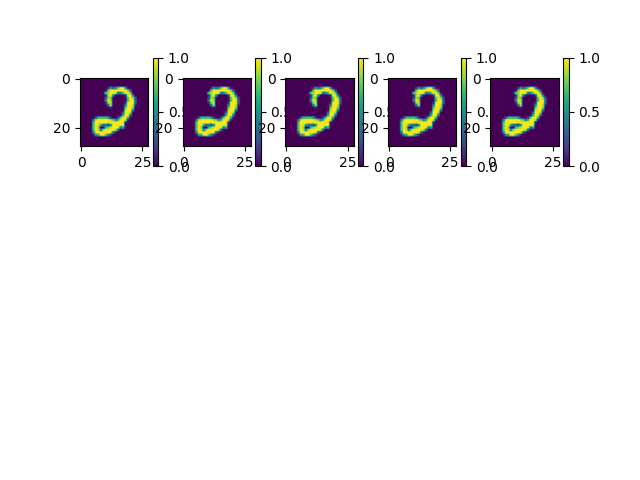
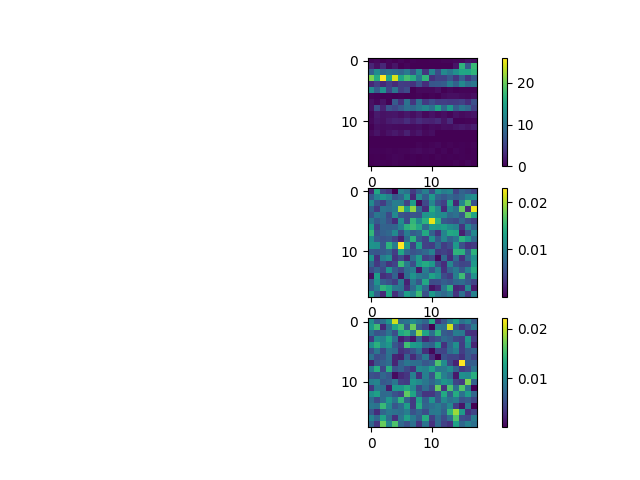
brewnet fold and unfold add to main

diff --git a/hynet/imgr/brew_layer.py b/hynet/imgr/brew_layer.py
@@ -14,6 +14,8 @@ class BrewLayer(nn.Module):
         self.fnn = nn.ModuleList([
             nn.Linear(sample_size, hidden_size, bias=bias),
             nn.ReLU(),
+            nn.Linear(hidden_size, hidden_size, bias=bias),
+            nn.ReLU(),
             nn.Linear(hidden_size, target_size, bias=bias)
         ])
 
@@ -32,14 +34,21 @@ class BrewLayer(nn.Module):
                 w = (module.weight).transpose(-2,- 1)
                 b = module.bias
 
+                if w_hat is not None:
+                    w_hat = torch.matmul(w_hat, w)
+                        # (?, d, C) x (C, C*)  -> (?, d, C*)
+                if b is not None:
+                    if b_hat is not None:
+                        b_hat = torch.matmul(b_hat, w)
+                            # (?, C) x (C, C*) -> (?, C*)
+                        b_hat = b.unsqueeze(0) + b_hat
+            elif isinstance(module, nn.ReLU) or isinstance(module, nn.PReLU):
                 rat = ratio[i].view(-1, ratio[i].size(-1))  # (?, C)
 
                 if w_hat is None:
                     w_hat = rat.unsqueeze(1) * w.unsqueeze(0)
                     # (?, 1, C1) * (1, d, C1)  -> (?, d, C1)
                 else:
-                    w_hat = torch.matmul(w_hat, w)
-                    # (?, d, C) x (C, C*)  -> (?, d, C*)
                     w_hat = rat.unsqueeze(1) * w_hat  # (?, 1, C*) * (?, d, C*)
 
                 if b is not None:
@@ -47,16 +56,9 @@ class BrewLayer(nn.Module):
                         b_hat = rat * b.unsqueeze(0)
                         # (?, C1) * (1, C1) -> (?, C1)
                     else:
-                        b_hat = torch.matmul(b_hat, w)
-                        # (?, C) x (C, C*) -> (?, C*)
-                        b_hat = rat * (b.unsqueeze(0) + b_hat)
+                        b_hat = rat * b_hat
                         # (?, C) + (?, C) -> (?, C*)
-
                 i += 1
-            elif isinstance(module, nn.ReLU):
-                pass
-            elif isinstance(module, nn.PReLU):
-                pass
             else:
                 raise AttributeError(
                     "Current network architecture, {}, is not supported!".format(module))
@@ -67,45 +69,35 @@ class BrewLayer(nn.Module):
         ratio = []
         for idx, module in enumerate(self.fnn):
             if isinstance(module, nn.Linear):
-                if idx > 0:
-                    ratio.append(self.calculate_ratio(x, x_base))
-                x_base = module(x)
-                x = x_base
-            elif isinstance(module, nn.ReLU):
                 x = module(x)
-            elif isinstance(module, nn.PReLU):
+            elif isinstance(module, nn.ReLU) or isinstance(module, nn.PReLU):
+                x_base = x
                 x = module(x)
+                ratio.append(self.calculate_ratio(x, x_base))
             else:
                 raise AttributeError(
                     "Current network architecture is not supported!")
-
-            if len(self.fnn) - 1 == idx:
-                ratio.append(self.calculate_ratio(x, x_base))
 
         return x, ratio
 
 class BrewCnnLayer(nn.Module):
     def __init__(
-        self,
-        sample_size,
-        hidden_size,
-        target_size,
-        bias=True):
+        self):
         super().__init__()
 
-        self.fnn = nn.ModuleList([
-            nn.Conv2d(1, 5, kernel_size=(7,7), stride=(1,1), bias=False),
+        self.cnn = nn.ModuleList([
+            nn.Unfold(kernel_size=(7,7), stride=(1,1)),
+            nn.Linear(in_features=7*7*1, out_features=10, bias=False),
+            nn.Fold(kernel_size=(1,1), output_size=(22,22)),
             nn.ReLU(),
-            nn.Conv2d(5, 10, kernel_size=(5,5), stride=(1,1), bias=False),
-            nn.ReLU(),
-            nn.Flatten(),
-            nn.Linear(18 * 18 * 10, 10),
-            nn.ReLU(),
-            nn.Linear(10, 10)
+            nn.Unfold(kernel_size=(5,5), stride=(1,1)),
+            nn.Linear(in_features=5*5*10, out_features=10, bias=False),
+            nn.Fold(kernel_size=(1,1), output_size=(18,18)),
+            nn.ReLU()
         ])
 
     @staticmethod
-    def calculate_ratio(x, x_base):
+    def calculate_ratio(x, x_base): 
         rat = x / x_base
         rat[torch.isnan(rat) | torch.isinf(rat)] = 0.0
 
@@ -113,74 +105,31 @@ class BrewCnnLayer(nn.Module):
 
     def brew(self, ratio, split_dim=None, w_hat=None, b_hat=None):
         i = 0
-
-        i_max = len(ratio)
         
-        for module in self.fnn:
-            if isinstance(module, nn.Conv2d):
-                w = module.weight
-                if module.transposed:
-                    w = w.transpose(0,1)
-                # (out_ch, in_ch, *kernel_size)
-                # b = module.bias
-
-                rat = ratio[i].unsqueeze(1)  # (B, 1, out_ch, w, h)
-                if i == 0:
-                    batch_size = rat.size(0)
-
+        for module in self.cnn:
+            if isinstance(module, nn.ReLU) or isinstance(module, nn.PReLU):
+                rat = ratio[i]
+                # (B, C*, w, h)
                 if w_hat is None:
-                    w = w.reshape(1, w.size(0), -1, 1, 1).transpose(1, 2)  # (1, in_ch * *kernel_size, out_ch)
-                    w_hat = w * rat  # (B, in_ch * *kernel_size, out_ch, w, h)
-                    w_hat = w_hat.reshape(w_hat.size(0) * w_hat.size(1), w_hat.size(2), w_hat.size(3), w_hat.size(4))
+                    w_hat = rat.unsqueeze(1) * w.unsqueeze(0).unsqueeze(-1).unsqueeze(-1)
+                    # (?, 1, C1, w, h) * (1, d, C1, 1, 1)  -> (?, d, C1, w, h)
                 else:
-                    w_hat_unf = F.unfold(w_hat, kernel_size=module.kernel_size)
-                    # (B * prev_in_ch * *prev_kernel_size, *kernel_size * in_ch, w_new * h_new)
-                    w = w.reshape(w.size(0), -1)
-                    w_hat = torch.matmul(w_hat_unf.transpose(-2, -1), w.t())  
-                    # (B * prev_in_ch * *prev_kernel_size, w_new * h_new, out_ch)
-                i += 1
+                    w_hat = rat.unsqueeze(1) * w_hat  
+                    # (?, 1, C*, w, h) * (?, d, C*, w, h) -> (?, d, C*, w, h)
 
+                i += 1
+            elif isinstance(module, nn.Unfold):
+                pass
+            elif isinstance(module, nn.Fold):
+                pass
             elif isinstance(module, nn.Linear):
                 w = (module.weight).transpose(-2,- 1)
-                b = module.bias
-                if i_max > i:
-                    rat = ratio[i].view(-1, ratio[i].size(-1))  # (?, C)
+                # (C, C*)
+                assert module.bias is None
 
-                    if w_hat is None:
-                        w_hat = rat.unsqueeze(1) * w.unsqueeze(0)
-                        # (?, 1, C1) * (1, d, C1)  -> (?, d, C1)
-                    else:
-                        w_hat = torch.matmul(w_hat, w)
-                        # (?, d, C) x (C, C*)  -> (?, d, C*)
-                        w_hat = rat.unsqueeze(1) * w_hat  # (?, 1, C*) * (?, d, C*)
-
-                    if b is not None:
-                        if b_hat is None:
-                            b_hat = rat * b.unsqueeze(0)
-                            # (?, C1) * (1, C1) -> (?, C1)
-                        else:
-                            b_hat = torch.matmul(b_hat, w)
-                            # (?, C) x (C, C*) -> (?, C*)
-                            b_hat = rat * (b.unsqueeze(0) + b_hat)
-                            # (?, C) + (?, C) -> (?, C*)
-
-                    i += 1
-                else:
+                if w_hat is not None:
                     w_hat = torch.matmul(w_hat, w)
-                    # (?, d, C) x (C, C*)  -> (?, d, C*)
-
-                    if b is not None:
-                        b_hat = torch.matmul(b_hat, w)
-                        # (?, C) x (C, C*) -> (?, C*)
-                        b_hat = (b.unsqueeze(0) + b_hat)
-                        # (?, C) + (?, C) -> (?, C*)
-            elif isinstance(module, nn.ReLU):
-                pass
-            elif isinstance(module, nn.PReLU):
-                pass
-            elif isinstance(module, nn.Flatten):
-                w_hat = w_hat.reshape(batch_size, int(w_hat.size(0) / batch_size), -1)
-                
+                    # (?, d, C, w, h) x (C, C*)  -> (?, d, C*)
             else:
                 raise AttributeError(
                     "Current network architecture, {}, is not supported!".format(module))
@@ -195,17 +144,24 @@ class BrewCnnLayer(nn.Module):
         x = x.view(batch_size, 1, 28, 28)
 
         # make patch for weight        
-        for idx, module in enumerate(self.fnn):
-            if isinstance(module, nn.Conv2d) or isinstance(module, nn.Linear):
-                x = module(x)
-            elif isinstance(module, nn.ReLU) or isinstance(module, nn.PReLU):
+        for module in self.cnn:
+            if isinstance(module, nn.ReLU) or isinstance(module, nn.PReLU):
                 x_base = x
                 x = module(x)
                 ratio.append(self.calculate_ratio(x, x_base))
-            elif isinstance(module, nn.Flatten):
+                print(ratio[-1].size())
+            elif isinstance(module, nn.Unfold):
                 x = module(x)
+            elif isinstance(module, nn.Fold):
+                x = module(x)
+            elif isinstance(module, nn.Linear):
+                x = module(x.transpose(1, 2))
+                x = x.transpose(1, 2)
             else:
                 raise AttributeError(
-                    "Current network architecture is not supported!")
+                    "Current network architecture, {}, is not supported!".format(module))
+
+            
+        exit()
 
         return x, ratio

diff --git a/hynet/imgr/imgr_model.py b/hynet/imgr/imgr_model.py
@@ -22,14 +22,16 @@ class HynetImgrModel(AbsESPnetModel):
         super().__init__()
 
         self.bias = True
-        self.max_iter = 5
-        self.brew_layer = BrewCnnLayer(
-            sample_size=28*28,
+        self.max_iter = 1
+
+        self.brew_cnn_layer = BrewCnnLayer()
+        self.brew_layer = BrewLayer(
+            sample_size=18*18*10,
             hidden_size=512,
             target_size=10,
             bias=self.bias)
         # self.brew_recon_layer = BrewLayer(
-        #     sample_size=28*28*2,
+        #     sample_size=18*18*10,
         #     hidden_size=512,
         #     target_size=28*28,
         #     bias=self.bias)    
@@ -64,39 +66,37 @@ class HynetImgrModel(AbsESPnetModel):
             image = self.minimaxn(image).detach()
 
             # 1. feedforward neural network 
-            label_hat, ratio = self.brew_layer(image)
+            feat, ratio_cnn = self.brew_cnn_layer(image)
+            feat = torch.flatten(feat, start_dim=1)
+            label_hat, ratio = self.brew_layer(feat)
 
             # 2. brewing and check loss of p_hat results and normal result
             p_hat = self.brew_layer.brew(ratio=ratio)
-            p_type = 'conv2d'
+            # p_hat = self.brew_cnn_layer.brew(ratio=ratio_cnn, w_hat=p_hat[0], b_hat=p_hat[1])
             if i == 0:
-                if p_type is 'conv2d':
-                    image_unf = F.unfold(image.view(-1,1,28,28), kernel_size=(7,7))
-                    label_hat_hat = torch.matmul(image_unf.transpose(1, 2), p_hat[0]).sum(1)
-                else:
-                    label_hat_hat = torch.matmul(image.unsqueeze(-2), p_hat[0])
-                    label_hat_hat = label_hat_hat.squeeze(-2)
+                label_hat_hat = torch.matmul(feat.unsqueeze(-2), p_hat[0])
+                label_hat_hat = label_hat_hat.squeeze(-2)
                 if self.bias:
                     label_hat_hat += p_hat[1]
-                loss_brew = torch.pow(label_hat - label_hat_hat, 2).mean()  
+                loss_brew = torch.pow(label_hat - label_hat_hat, 2).mean() 
 
-                # 3. caculate measurment 
+            # 3. caculate measurment 
                 loss = self.criterion(label_hat, label)
                 losses.append(loss)
             acc = self._calc_acc(label_hat, label)        
             accs.append(acc)
 
-            # # 4. inverse atte ntion with feature
-            # label_hat = label_hat - p_hat[1]
-            # label_hat = torch.softmax(label_hat, dim=-1)
-            # w_pos = torch.relu(p_hat[0])
-            # attn_pos = torch.matmul(label_hat.unsqueeze(-2), w_pos.transpose(-2, -1))
-            # attn_pos = attn_pos.squeeze(-2)
-            # w_neg = torch.relu(-1.0 * p_hat[0])
-            # attn_neg = torch.matmul(label_hat.unsqueeze(-2), w_neg.transpose(-2, -1))
-            # attn_neg = attn_neg.squeeze(-2)
-            # attns[0].append(attn_pos[0].view(28, 28))
-            # attns[1].append(attn_neg[0].view(28, 28))
+            # 4. inverse atte ntion with feature
+            label_hat = label_hat - p_hat[1]
+            label_hat = torch.softmax(label_hat, dim=-1)
+            w_pos = torch.relu(p_hat[0])
+            attn_pos = torch.matmul(label_hat.unsqueeze(-2), w_pos.transpose(-2, -1))
+            attn_pos = attn_pos.squeeze(-2)
+            w_neg = torch.relu(-1.0 * p_hat[0])
+            attn_neg = torch.matmul(label_hat.unsqueeze(-2), w_neg.transpose(-2, -1))
+            attn_neg = attn_neg.squeeze(-2)
+            attns[0].append(attn_pos[0].view(18, 18, 10).mean(-1))
+            attns[1].append(attn_neg[0].view(18, 18, 10).mean(-1))
 
             # if i == 0:
             #     attn = [attn_pos, attn_neg]
@@ -108,6 +108,7 @@ class HynetImgrModel(AbsESPnetModel):
             # image = attn_pos * image
             imgs[0].append(image[0].view(28, 28))
             # imgs[1].append(image_recon[0].view(28, 28))
+            imgs[1].append(feat[0].view(18, 18, 10).mean(-1))
 
         loss = 0.0
         for los in losses:
@@ -120,7 +121,7 @@ class HynetImgrModel(AbsESPnetModel):
                 acc_end=accs[-1]
             )
         if not self.training:
-            stats['aux'] = [imgs[0]] #[imgs[1], attns[0], attns[1]]
+            stats['aux'] = [imgs[1], attns[0], attns[1]]
 
         loss, stats, weight = force_gatherable(
             (loss, stats, batch_size), loss.device)

diff --git a/hynet/train/trainer.py b/hynet/train/trainer.py
@@ -77,14 +77,14 @@ class ImgrTrainer(Trainer):
                 plt.subplot(3, len_max, i+1)
                 plt.imshow(img.detach().cpu().numpy())
                 plt.colorbar()
-            # for j, img in enumerate(img_list[1]):
-            #     plt.subplot(3, len_max, i+j+2)
-            #     plt.imshow(img.detach().cpu().numpy())
-            #     plt.colorbar()
-            # for k, img in enumerate(img_list[2]):
-            #     plt.subplot(3, len_max, i+j+k+3)
-            #     plt.imshow(img.detach().cpu().numpy())
-            #     plt.colorbar()
+            for j, img in enumerate(img_list[1]):
+                plt.subplot(3, len_max, i+j+2)
+                plt.imshow(img.detach().cpu().numpy())
+                plt.colorbar()
+            for k, img in enumerate(img_list[2]):
+                plt.subplot(3, len_max, i+j+k+3)
+                plt.imshow(img.detach().cpu().numpy())
+                plt.colorbar()
             ind_plot += 1
             plt.savefig('imgs{}.png'.format(ind_plot))
 
